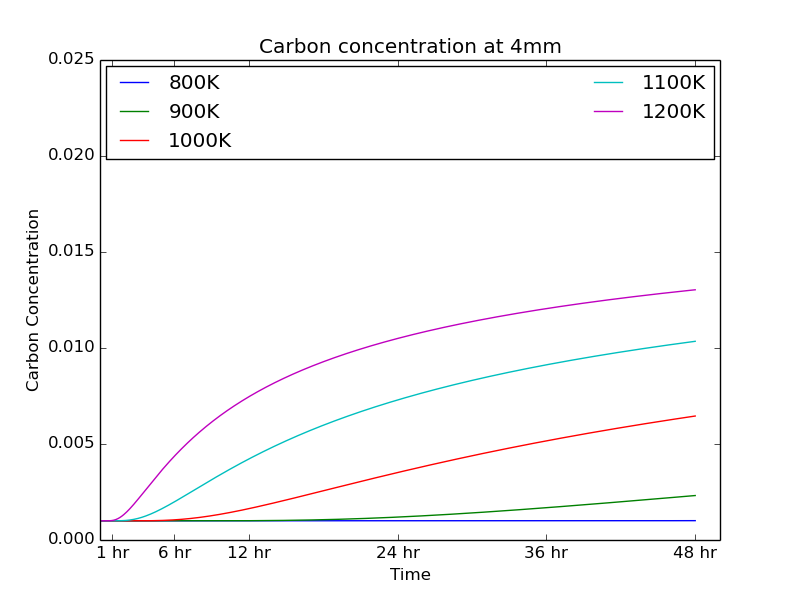
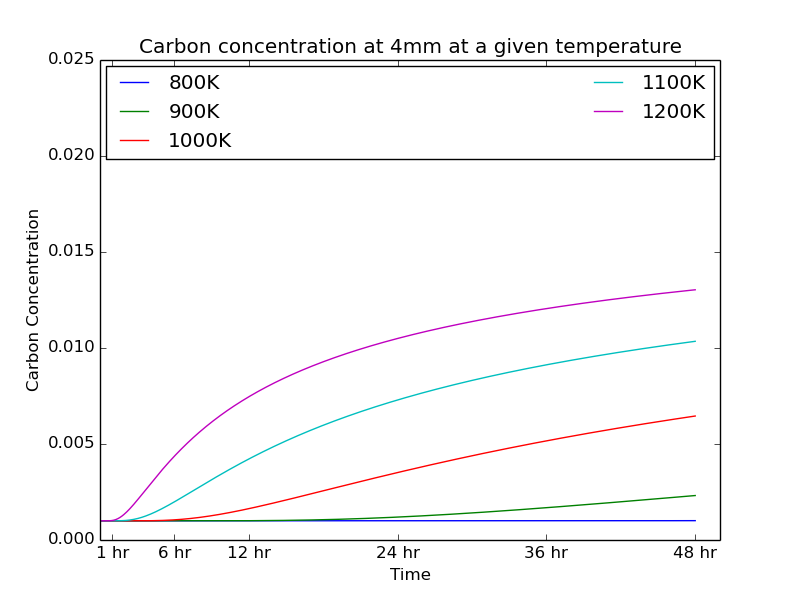
finished project 4, improved output

Changed region(s): [[0.1562, 0.06, 0.8438, 0.09]]

diff --git a/Project_4/src/carbon.py b/Project_4/src/carbon.py
@@ -1,3 +1,4 @@
+from matplotlib import *
 from pylab import *
 t_values = loadtxt("time.txt");
 T_values = loadtxt("Temp.txt");
@@ -14,45 +15,75 @@ C4mm_1000K = loadtxt("C4mm_1000K.txt")
 C4mm_1100K = loadtxt("C4mm_1100K.txt")
 C4mm_1200K = loadtxt("C4mm_1200K.txt")
 
+time_ticks =[]
+x_ticks =[]
+x_vals = linspace(0, 599, 7)
+for x in xrange(0,7):
+	x_ticks.append(round(x_vals[x]))
+	time_ticks.append(round( t_values[round(x_vals[x])]/3600) )
+
+temp_ticks = []
+y_ticks = []
+y_vals = linspace(0, 399, 5)
+for x in xrange(0,5):
+	y_ticks.append(round(y_vals[x], -1))
+	temp_ticks.append(round(T_values[ y_vals[x] ], -1))
+
 figure()
+ax = subplot()
 imshow(C2MM)
 colorbar(orientation='horizontal')
+xlabel("Time (Hours)")
+ylabel("Temperature (Kelvin)")
+gca().invert_yaxis()
+ax.set_xticks(x_ticks)
+ax.set_xticklabels(time_ticks)
+ax.set_yticks(y_ticks)
+ax.set_yticklabels(temp_ticks)
 title("Carbon 2MM")
 savefig("Carbon_Contour_2mm.png")
 
 figure()
+ax = gca()
 imshow(C4MM)
 colorbar(orientation='horizontal')
+xlabel("Time (Hours)")
+ylabel("Temperature (Kelvin)")
+gca().invert_yaxis()
+gca().set_xticks(x_ticks)
+ax.set_xticklabels(time_ticks)
+ax.set_yticks(y_ticks)
+ax.set_yticklabels(temp_ticks)
 title("Carbon 4MM")
 savefig("Carbon_Contour_4mm.png")
 
 figure()
-plt.plot(t_values, C2mm_800K,label="800K")
-plt.plot(t_values, C2mm_900K, label="900K")
-plt.plot(t_values, C2mm_1000K, label="1000K")
-plt.plot(t_values, C2mm_1100K, label="1100K")
-plt.plot(t_values, C2mm_1200K, label="1200K")
-plt.title("Carbon concentration at 2mm ")
-plt.xlabel("Time")
-plt.ylabel("Carbon Concentration")
-plt.xticks( (1*3600, 6*3600, 12*3600, 24*3600, 36*3600, 48*3600), ('1 hr', '6 hr', '12 hr', '24 hr', '36 hr', '48 hr') )
-axes = plt.gca()
+plot(t_values, C2mm_800K,label="800K")
+plot(t_values, C2mm_900K, label="900K")
+plot(t_values, C2mm_1000K, label="1000K")
+plot(t_values, C2mm_1100K, label="1100K")
+plot(t_values, C2mm_1200K, label="1200K")
+title("Carbon concentration at 2mm at a given temperature")
+xlabel("Time")
+ylabel("Carbon Concentration")
+xticks( (1*3600, 6*3600, 12*3600, 24*3600, 36*3600, 48*3600), ('1 hr', '6 hr', '12 hr', '24 hr', '36 hr', '48 hr') )
+axes = gca()
 axes.set_ylim([0,0.025])
-plt.legend( loc=2, ncol=2, mode="expand", borderaxespad=0.3)
+legend( loc=2, ncol=2, mode="expand", borderaxespad=0.3)
 savefig("2mm_carbon_concetration_aggregate.png")
 
 figure()
-plt.plot(t_values,C4mm_800K,label="800K")
-plt.plot(t_values, C4mm_900K, label="900K")
-plt.plot(t_values, C4mm_1000K, label="1000K")
-plt.plot(t_values, C4mm_1100K, label="1100K")
-plt.plot(t_values, C4mm_1200K, label="1200K")
-plt.title("Carbon concentration at 4mm ")
-plt.xlabel("Time")
-plt.ylabel("Carbon Concentration")
-plt.xticks( (1*3600, 6*3600, 12*3600, 24*3600, 36*3600, 48*3600), ('1 hr', '6 hr', '12 hr', '24 hr', '36 hr', '48 hr') )
-axes = plt.gca()
+plot(t_values,C4mm_800K,label="800K")
+plot(t_values, C4mm_900K, label="900K")
+plot(t_values, C4mm_1000K, label="1000K")
+plot(t_values, C4mm_1100K, label="1100K")
+plot(t_values, C4mm_1200K, label="1200K")
+title("Carbon concentration at 4mm at a given temperature")
+xlabel("Time")
+ylabel("Carbon Concentration")
+xticks( (1*3600, 6*3600, 12*3600, 24*3600, 36*3600, 48*3600), ('1 hr', '6 hr', '12 hr', '24 hr', '36 hr', '48 hr') )
+axes = gca()
 axes.set_ylim([0,0.025])
-plt.legend( loc=2, ncol=2, mode="expand", borderaxespad=0.3)
+legend( loc=2, ncol=2, mode="expand", borderaxespad=0.3)
 savefig("4mm_carbon_concetration_aggregate.png")
 

diff --git a/Project_4/src/test_int.cpp b/Project_4/src/test_int.cpp
@@ -50,7 +50,7 @@ int main(int argc, char* argv[]) {
   cout << "\n Gauss-2 approximation:\n";
   cout << "     n             R(f)            relerr    conv rate\n";
   cout << "  ---------------------------------------------------\n";
-  vector<int> n = {20, 80, 140, 200, 260, 320};
+  vector<int> n = {20, 80, 140, 200, 260, 500};
   vector<double> errors(n.size());
   vector<double> hvals(n.size());
 
